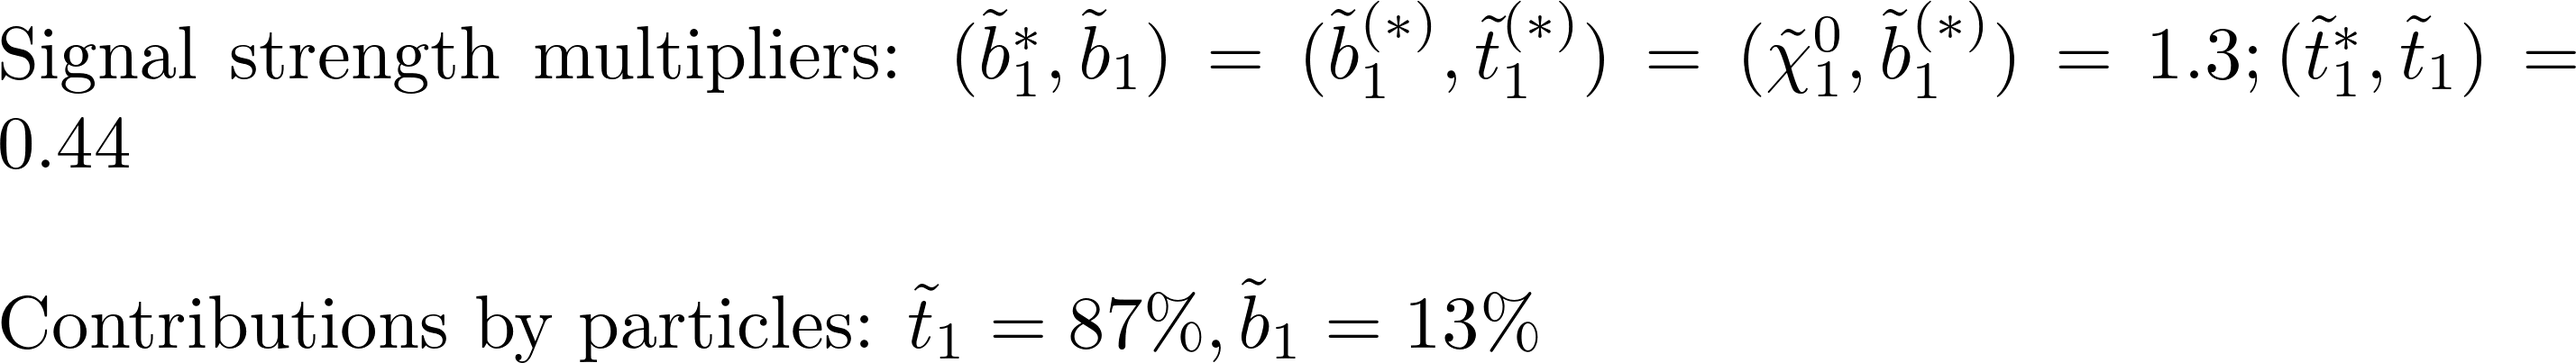
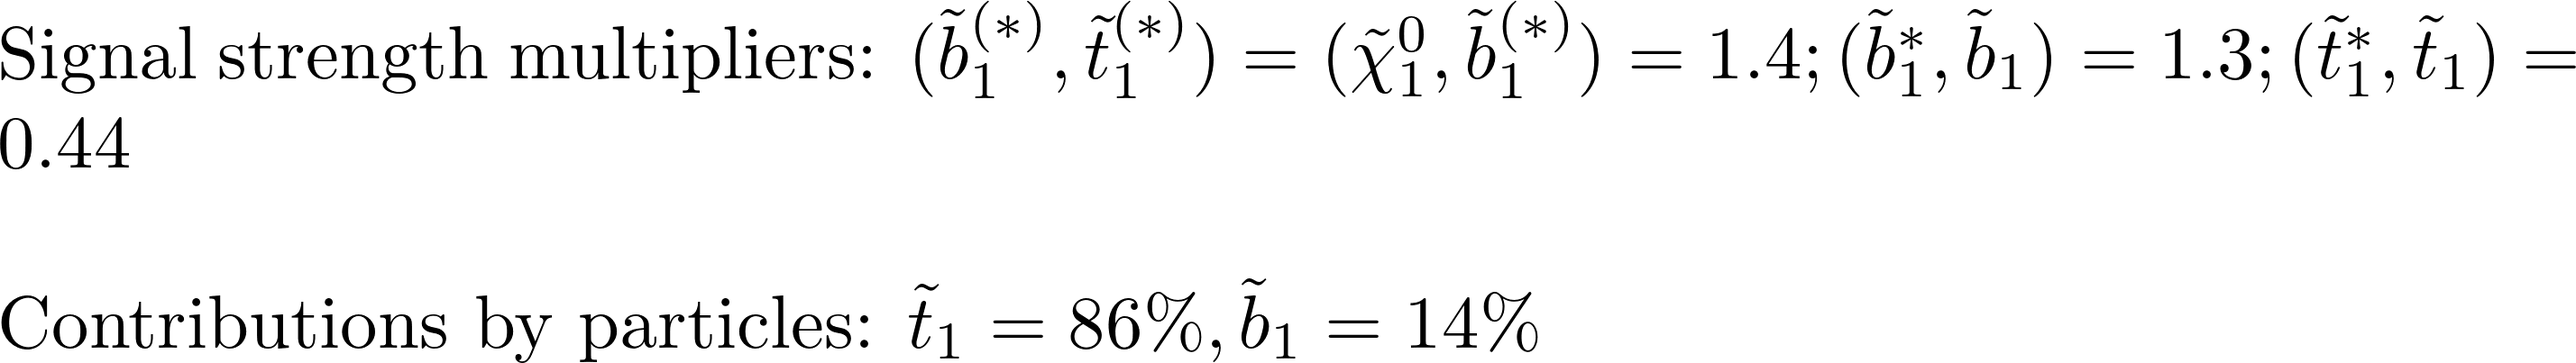
automated update by plotHiscore.py

diff --git a/protomodels/latest/index.html b/protomodels/latest/index.html
@@ -1,14 +1,14 @@
 <html>
 <body>
 <center>
-<table><td><h1>Current best protomodel: K=6.93, Z=3.05</h1><td><img height=60px src=https://smodels.github.io/pics/banner.png></table>
+<table><td><h1>Current best protomodel: K=6.95, Z=3.06</h1><td><img height=60px src=https://smodels.github.io/pics/banner.png></table>
 </center>
-<b><a href=./hiscore.slha>ProtoModel</a> <a href=./pmodel.py>(dict)</a> produced with <a href=https://smodels.github.io/docs/Validation123SM1>database v1.2.3SM1</a>, combination strategy <a href=./matrix_aggressive.png>aggressive</a> in step 16.</b> Z plots for: <a href=./M1000022.png?682081>~&chi;<sub>1</sub><sup>0</sup></a>, <a href=./M1000006.png?682081>~t<sub>1</sub></a>, <a href=./M1000005.png?682081>~b<sub>1</sub></a>. HPD plots for: <a href=./llhd1000006.png?682081>~t<sub>1</sub></a>, <a href=./llhd1000005.png?682081>~b<sub>1</sub></a>. SSM plots for: <a href=./ssm_-1000006_1000006.png?682081>(~t<sub>1</sub><sup>*</sup>,~t<sub>1</sub>)</a>, <a href=./ssm_-1000005_1000005.png?682081>(~b<sub>1</sub><sup>*</sup>,~b<sub>1</sub>)</a><br>
+<b><a href=./hiscore.slha>ProtoModel</a> <a href=./pmodel.py>(dict)</a> produced with <a href=https://smodels.github.io/docs/Validation123SM1>database v1.2.3SM1</a>, combination strategy <a href=./matrix_aggressive.png>aggressive</a> in step 18.</b> Z plots for: <a href=./M1000022.png?698628>~&chi;<sub>1</sub><sup>0</sup></a>, <a href=./M1000006.png?698628>~t<sub>1</sub></a>, <a href=./M1000005.png?698628>~b<sub>1</sub></a>. HPD plots for: <a href=./llhd1000006.png?698628>~t<sub>1</sub></a>, <a href=./llhd1000005.png?698628>~b<sub>1</sub></a>. SSM plots for: <a href=./ssm_-1000006_1000006.png?698628>(~t<sub>1</sub><sup>*</sup>,~t<sub>1</sub>)</a>, <a href=./ssm_-1000005_1000005.png?698628>(~b<sub>1</sub><sup>*</sup>,~b<sub>1</sub>)</a><br>
 <table width=80%>
 <tr><td>
 <br><b>32 predictions available. Highest r values are:</b><br><ul>
 <li><a href=http://cms-results.web.cern.ch/cms-results/public-results/publications/SUS-19-006/index.html>CMS-SUS-19-006</a>:T2tt r=1.70, r<sub>exp</sub>=0.63<br>
-<li><a href=https://atlas.web.cern.ch/Atlas/GROUPS/PHYSICS/PAPERS/SUSY-2015-01/>ATLAS-SUSY-2015-01</a>:T2bb r=1.65, r<sub>exp</sub>=0.95<br>
+<li><a href=https://atlas.web.cern.ch/Atlas/GROUPS/PHYSICS/PAPERS/SUSY-2015-01/>ATLAS-SUSY-2015-01</a>:T2bb r=1.68, r<sub>exp</sub>=0.96<br>
 <li><a href=http://cms-results.web.cern.ch/cms-results/public-results/publications/SUS-16-051/index.html>CMS-SUS-16-051</a>:T2tt r=1.46, r<sub>exp</sub>=0.43<br>
 <li><a href=http://cms-results.web.cern.ch/cms-results/public-results/publications/SUS-16-049/index.html>CMS-SUS-16-049</a>:T2tt r=1.02, r<sub>exp</sub>=0.69<br>
 <li><a href=https://atlas.web.cern.ch/Atlas/GROUPS/PHYSICS/PAPERS/SUSY-2016-15/>ATLAS-SUSY-2016-15</a>:T2tt r=0.37, r<sub>exp</sub>=N/A<br>
@@ -21,11 +21,11 @@
 <li> <a href=https://atlas.web.cern.ch/Atlas/GROUPS/PHYSICS/PAPERS/SUSY-2016-16/>ATLAS-SUSY-2016-16</a>: 12%
 <li> <a href=https://atlas.web.cern.ch/Atlas/GROUPS/PHYSICS/PAPERS/SUSY-2013-21/>ATLAS-SUSY-2013-21</a>: 0%
 <li> <a href=http://cms-results.web.cern.ch/cms-results/public-results/publications/SUS-16-050/index.html>CMS-SUS-16-050</a>: -45%
-<td><img width=600px src=./texdoc.png?1593682081>
-<br><font size=-1>Last updated: Thu Jul  2 11:28:01 2020</font>
+<td><img width=600px src=./texdoc.png?1593698628>
+<br><font size=-1>Last updated: Thu Jul  2 16:03:48 2020</font>
 </table><table style="width:80%">
-<td width=45%><img height=580px src=./ruler.png?1593682081><td width=55%><img height=380px src=./decays.png?1593682081>
-<font size=-3><iframe type="text/html" height="220px" width="100%s" frameborder="0" src="./rawnumbers.html?1593682081"></iframe></font>
+<td width=45%><img height=580px src=./ruler.png?1593698628><td width=55%><img height=380px src=./decays.png?1593698628>
+<font size=-3><iframe type="text/html" height="220px" width="100%s" frameborder="0" src="./rawnumbers.html?1593698628"></iframe></font>
 </table>
 </body>
 </html>

diff --git a/protomodels/latest/pmodel.py b/protomodels/latest/pmodel.py
@@ -1,1 +1,1 @@
-{'masses': {1000005: 385.094, 1000006: 973.323, 1000022: 369.786}, 'ssmultipliers': {(1000005, 1000005): 1.262, (-1000005, 1000005): 1.294, (1000005, 1000006): 1.262, (-1000006, 1000005): 1.262, (1000005, 1000022): 1.262, (-1000005, -1000005): 1.262, (-1000005, 1000006): 1.262, (-1000006, -1000005): 1.262, (-1000005, 1000022): 1.262, (1000006, 1000006): 0.438, (-1000006, 1000006): 0.438, (1000006, 1000022): 0.471, (-1000006, -1000006): 0.438, (-1000006, 1000022): 0.471, (1000022, 1000022): 0.507}, 'decays': {1000005: {1000022: 1.0}, 1000006: {1000022: 1.0}, 1000022: {}}, 'timestamp': 'Thu Jul  2 11:27:56 2020', 'Z': 3.052, 'K': 6.931, 'step': 16}
+{'masses': {1000005: 385.094, 1000006: 973.323, 1000022: 369.786}, 'ssmultipliers': {(1000005, 1000005): 1.279, (-1000005, 1000005): 1.311, (1000005, 1000006): 1.37, (-1000006, 1000005): 1.37, (1000005, 1000022): 1.37, (-1000005, -1000005): 1.279, (-1000005, 1000006): 1.37, (-1000006, -1000005): 1.37, (-1000005, 1000022): 1.37, (1000006, 1000006): 0.438, (-1000006, 1000006): 0.438, (1000006, 1000022): 0.471, (-1000006, -1000006): 0.438, (-1000006, 1000022): 0.471, (1000022, 1000022): 0.506}, 'decays': {1000005: {1000022: 1.0}, 1000006: {1000022: 1.0}, 1000022: {}}, 'timestamp': 'Thu Jul  2 16:03:41 2020', 'Z': 3.056, 'K': 6.953, 'step': 18}
